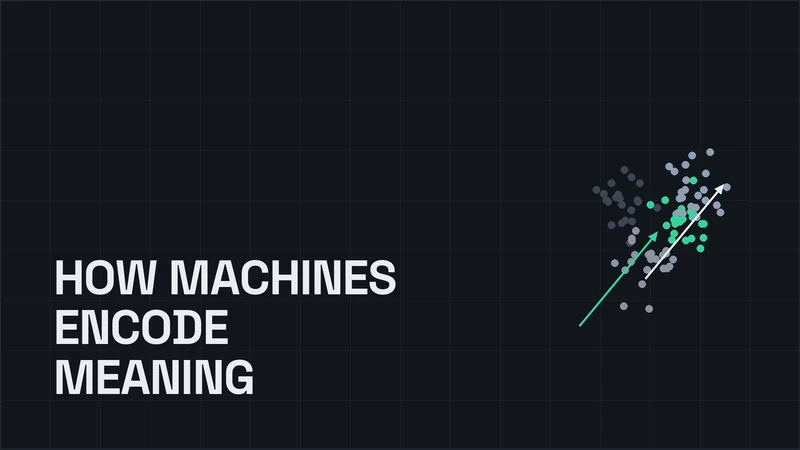
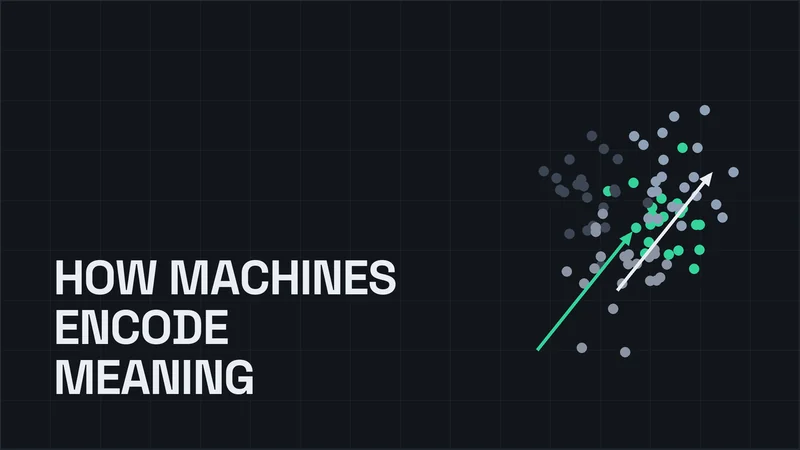
UI/UX polish: tidy Experience and Research copy, polish article figures

diff --git a/pages/experience.html b/pages/experience.html
@@ -22,7 +22,7 @@
     <link rel="icon" type="image/png" href="/assets/favicon.png?v=5" />
     <link rel="preload" href="/assets/webfonts/space-grotesk-400.woff2" as="font" type="font/woff2" crossorigin />
     <link rel="preload" href="/assets/webfonts/space-grotesk-700.woff2" as="font" type="font/woff2" crossorigin />
-    <link rel="stylesheet" href="/assets/css/styles.css?v=207" />
+    <link rel="stylesheet" href="/assets/css/styles.css?v=210" />
     <script>
       (function () {
         try {
@@ -70,9 +70,9 @@
                 <span class="timeline-loc"><svg class="loc-pin" viewBox="0 0 24 24" fill="none" stroke="currentColor" stroke-width="2" stroke-linecap="round" stroke-linejoin="round" aria-hidden="true"><path d="M21 10c0 7-9 13-9 13s-9-6-9-13a9 9 0 0 1 18 0z"/><circle cx="12" cy="10" r="3"/></svg>New York, NY</span>
               </div>
               <ul class="detail-list">
-                <li>Engineer and validate LLM prompts to evaluate <strong>commercial LLMs&rsquo; capability to automate population health analytics</strong> tasks like <strong>health disparity detection</strong> and report generation for a grant-funded health equity study.</li>
-                <li>Run <strong>blinded, human-in-the-loop evaluations</strong> of LLM outputs, measuring accuracy, bias, and <strong>hallucination risk</strong> for responsible use in a safety net health system.</li>
-                <li>Translate evaluation results into clear findings for the research team, supporting <strong>manuscript development</strong> and <strong>grant dissemination</strong> on responsible LLM use in healthcare.</li>
+                <li>Engineer and validate LLM prompts to evaluate commercial LLMs&rsquo; capability to automate <strong>population health analytics</strong> tasks like <strong>health disparity detection</strong> and report generation.</li>
+                <li>Run blinded, human-in-the-loop evaluations of LLM outputs, measuring accuracy, bias, and <strong>hallucination risk</strong> for responsible use in a safety net health system.</li>
+                <li>Translate evaluation results into clear findings for the research team, supporting manuscript development and grant dissemination on responsible LLM use in healthcare.</li>
               </ul>
             </div>
           </article>
@@ -86,8 +86,8 @@
               </div>
               <ul class="detail-list">
                 <li>Develop <strong>deep-learning pose-estimation models</strong> (PyTorch) that track body and facial keypoints in high-speed video, automating <strong>pain behavior measurement</strong> in preclinical research.</li>
-                <li>Own the data side of model training, curating and validating <strong>labeled datasets</strong> with rigorous <strong>quality review</strong> to ensure model generalization across subjects and labs.</li>
-                <li>Run and benchmark <strong>training experiments</strong> on <strong>cloud platforms</strong>, defining evaluation metrics and diagnosing failure modes to improve reliability.</li>
+                <li>Own the data side of model training, curating and validating labeled datasets with rigorous quality review to ensure <strong>model generalization</strong> across subjects and labs.</li>
+                <li>Run and benchmark training experiments on cloud platforms, defining <strong>evaluation metrics</strong> and diagnosing failure modes to improve reliability.</li>
               </ul>
             </div>
           </article>
@@ -100,11 +100,11 @@
                 <span class="timeline-loc"><svg class="loc-pin" viewBox="0 0 24 24" fill="none" stroke="currentColor" stroke-width="2" stroke-linecap="round" stroke-linejoin="round" aria-hidden="true"><path d="M21 10c0 7-9 13-9 13s-9-6-9-13a9 9 0 0 1 18 0z"/><circle cx="12" cy="10" r="3"/></svg>New York, NY</span>
               </div>
               <ul class="detail-list">
-                <li>Develop an <strong>agentic AI pipeline</strong> using <strong>RAG</strong>, <strong>LLMs</strong>, and <strong>MCP-connected tools</strong> for natural language querying over complex geoscience databases, as part of an <strong>NSF-funded</strong> geoinformatics project.</li>
-                <li>Bridge <strong>geoscience domain expertise</strong> and <strong>AI engineering</strong>, translating research requirements into technical specs and iterating on pipeline outputs for interpretability and scientific relevance.</li>
-                <li>Design the <strong>end-to-end technical stack</strong>: <strong>vector database architecture</strong>, domain-specific <strong>embedding models</strong>, <strong>LLM optimization</strong>, and <strong>cloud deployment</strong> for a production-ready geoscience research tool.</li>
+                <li>Develop an <strong>agentic AI pipeline</strong> using RAG, LLMs, and MCP-connected tools for natural language querying over complex geoscience databases, as part of an <strong>NSF-funded</strong> geoinformatics project.</li>
+                <li>Bridge geoscience domain expertise and AI engineering, translating research requirements into technical specs and iterating on pipeline outputs for interpretability and scientific relevance.</li>
+                <li>Design the <strong>end-to-end technical stack</strong>: vector database architecture, domain-specific embedding models, LLM optimization, and cloud deployment for a production-ready geoscience research tool.</li>
               </ul>
-              <p class="meta" style="margin-top: 12px;">NSF Geoinformatics Grant #2148957</p>
+              <p class="tag grant-tag">NSF Geoinformatics Grant #2148957</p>
             </div>
           </article>
           <article class="timeline-item">
@@ -116,9 +116,9 @@
                 <span class="timeline-loc"><svg class="loc-pin" viewBox="0 0 24 24" fill="none" stroke="currentColor" stroke-width="2" stroke-linecap="round" stroke-linejoin="round" aria-hidden="true"><path d="M21 10c0 7-9 13-9 13s-9-6-9-13a9 9 0 0 1 18 0z"/><circle cx="12" cy="10" r="3"/></svg>New York, NY</span>
               </div>
               <ul class="detail-list">
-                <li>Analyze <strong>institutional data</strong> using <strong>Excel</strong>, <strong>Tableau</strong>, and <strong>Python</strong>, surfacing patterns that shape <strong>advising and student engagement programs</strong>.</li>
-                <li>Conduct <strong>data-driven surveys</strong> and <strong>retention studies</strong>, uncovering behavioral patterns that inform targeted outreach.</li>
-                <li>Build <strong>analytical reports</strong> and <strong>dashboards</strong> that surface trends and anomalies across departments, replacing gut-feel decisions with <strong>data-backed ones</strong>.</li>
+                <li>Analyze institutional data using Excel, Tableau, and Python, surfacing patterns that shape <strong>advising and student engagement programs</strong>.</li>
+                <li>Conduct data-driven surveys and <strong>retention studies</strong>, uncovering behavioral patterns that inform targeted outreach.</li>
+                <li>Build analytical reports and <strong>dashboards</strong> that surface trends and anomalies across departments, replacing gut-feel decisions with data-backed ones.</li>
               </ul>
             </div>
           </article>
@@ -131,9 +131,9 @@
                 <span class="timeline-loc"><svg class="loc-pin" viewBox="0 0 24 24" fill="none" stroke="currentColor" stroke-width="2" stroke-linecap="round" stroke-linejoin="round" aria-hidden="true"><path d="M21 10c0 7-9 13-9 13s-9-6-9-13a9 9 0 0 1 18 0z"/><circle cx="12" cy="10" r="3"/></svg>New York, NY</span>
               </div>
               <ul class="detail-list">
-                <li>Designed and maintained <strong>scalable data pipelines</strong> to collect, integrate, and validate <strong>multi-source data</strong> through automated scripts, APIs, and web scraping.</li>
-                <li>Built <strong>data applications</strong> and analytical workflows powered by <strong>LLMs</strong>, integrating OpenAI and Hugging Face models into user-facing tools for exploring key metrics.</li>
-                <li>Analyzed data to surface trends and key drivers, packaging findings into <strong>visualizations</strong> and structured reports.</li>
+                <li>Designed and maintained <strong>scalable data pipelines</strong> to collect, integrate, and validate multi-source data through automated scripts, APIs, and web scraping.</li>
+                <li>Built data applications and analytical workflows powered by <strong>LLMs</strong>, integrating OpenAI and Hugging Face models into user-facing tools for exploring key metrics.</li>
+                <li>Analyzed data to surface trends and key drivers, packaging findings into visualizations and structured reports.</li>
               </ul>
             </div>
           </article>
@@ -141,7 +141,7 @@
             <div class="timeline-date">Feb 2024 - Aug 2025</div>
             <div class="timeline-card">
               <h3>AI Researcher - Healthcare, NLP & Adversarial AI</h3>
-              <p class="meta">Independent</p>
+              <p class="meta">Independent Research</p>
               <div class="timeline-side">
                 <span class="timeline-loc"><svg class="loc-pin" viewBox="0 0 24 24" fill="none" stroke="currentColor" stroke-width="2" stroke-linecap="round" stroke-linejoin="round" aria-hidden="true"><path d="M21 10c0 7-9 13-9 13s-9-6-9-13a9 9 0 0 1 18 0z"/><circle cx="12" cy="10" r="3"/></svg>New York, NY</span>
               </div>
@@ -163,8 +163,8 @@
                 <span class="timeline-loc"><svg class="loc-pin" viewBox="0 0 24 24" fill="none" stroke="currentColor" stroke-width="2" stroke-linecap="round" stroke-linejoin="round" aria-hidden="true"><path d="M21 10c0 7-9 13-9 13s-9-6-9-13a9 9 0 0 1 18 0z"/><circle cx="12" cy="10" r="3"/></svg>Dhaka, BD</span>
               </div>
               <ul class="detail-list">
-                <li>Digitized mixed <strong>Bangla-English prescriptions</strong> using a custom <strong>CNN model</strong>, achieving <strong>91% OCR accuracy</strong> including cursive handwriting recognition.</li>
-                <li>Reduced model training time by <strong>20%</strong> through optimized <strong>hyperparameter tuning</strong> and advanced preprocessing, including noise reduction and character segmentation.</li>
+                <li>Digitized mixed Bangla-English prescriptions using a custom <strong>CNN model</strong>, achieving <strong>91% OCR accuracy</strong> including cursive handwriting recognition.</li>
+                <li>Reduced model training time by <strong>20%</strong> through optimized hyperparameter tuning and advanced preprocessing, including noise reduction and character segmentation.</li>
                 <li>Improved system scalability by integrating <strong>modular preprocessing components</strong> for varied handwriting styles.</li>
               </ul>
             </div>

diff --git a/pages/research.html b/pages/research.html
@@ -22,7 +22,7 @@
     <link rel="icon" type="image/png" href="/assets/favicon.png?v=5" />
     <link rel="preload" href="/assets/webfonts/space-grotesk-400.woff2" as="font" type="font/woff2" crossorigin />
     <link rel="preload" href="/assets/webfonts/space-grotesk-700.woff2" as="font" type="font/woff2" crossorigin />
-    <link rel="stylesheet" href="/assets/css/styles.css?v=207" />
+    <link rel="stylesheet" href="/assets/css/styles.css?v=210" />
     <script>
       (function () {
         try {
@@ -70,13 +70,13 @@
           <article class="card">
             <span class="tag">IEEE Xplore</span>
             <h3>Robust Dual-Site Cancer Screening via Multi-Scale Vision Transformer & Rapid Recognition Pipeline</h3>
-            <p>Transformer-based framework for automated skin and oral cancer detection using Multi-ViT, MA-Transformer V2, MobileUNETR, TinyViT, and Xception, reaching 99.12% accuracy on PAD-UFES-20 and 99.37% on the Oral Cancer dataset.</p>
+            <p>Skin and oral cancer detection with Multi-ViT, MA-Transformer V2, MobileUNETR, TinyViT, and Xception, reaching 99.12% accuracy on PAD-UFES-20 and 99.37% on oral cancer data.</p>
             <a href="https://ieeexplore.ieee.org/document/11504035" target="_blank" rel="noopener">Read paper</a>
           </article>
           <article class="card">
             <span class="tag">Springer Nature</span>
             <h3>Texture Feature-Based Colonic Polyp Detection Using Deep Learning Techniques</h3>
-            <p>DeepLab3+ segmentation model achieving 97.33% IoU accuracy for colonic polyp boundary detection.</p>
+            <p>DeepLab3+ segmentation model with ResNet50 feature extraction, outlining colonic polyp boundaries at 97.33% IoU to support early colorectal cancer detection.</p>
             <a href="https://link.springer.com/chapter/10.1007/978-3-031-73324-6_2" target="_blank" rel="noopener">Read paper</a>
           </article>
           <article class="card">
@@ -120,8 +120,8 @@
             <p>Investigated sponge attacks that amplify energy consumption and inference latency on IoT and autonomous systems, with proposed defenses.</p>
           </article>
           <article class="card">
-            <h3>VLM-Based Adversarial Robustness for Autonomous Driving</h3>
-            <p>Built a VLM pipeline on NuScenes and Waymo to evaluate adversarial sponge vulnerabilities in vision-language models, improving robustness through explainable AI and adversarial training.</p>
+            <h3>Evaluating VLM-Based Adversarial Robustness for Autonomous Driving</h3>
+            <p>Built a VLM pipeline on NuScenes and Waymo to probe sponge-attack vulnerabilities, improving robustness through explainable AI and adversarial training.</p>
           </article>
           <article class="card">
             <h3>Explainable Token-Fusion Transformer for Early Drowsiness State Recognition</h3>

diff --git a/index.html b/index.html
@@ -25,7 +25,7 @@
     <link rel="icon" type="image/png" href="assets/favicon.png?v=5" />
     <link rel="preload" href="/assets/webfonts/space-grotesk-400.woff2" as="font" type="font/woff2" crossorigin />
     <link rel="preload" href="/assets/webfonts/space-grotesk-700.woff2" as="font" type="font/woff2" crossorigin />
-    <link rel="stylesheet" href="assets/css/styles.css?v=207" />
+    <link rel="stylesheet" href="assets/css/styles.css?v=210" />
     <script>
       (function () {
         try {
@@ -69,7 +69,7 @@
         <aside class="profile-panel" aria-label="Profile summary">
           <img src="assets/avatar.webp" alt="Illustrated avatar of Fahim Ahamed" decoding="async" fetchpriority="high" width="320" height="320" />
           <ul class="profile-facts" aria-label="Location and work authorization">
-            <li><svg viewBox="0 0 24 24" aria-hidden="true"><path d="M21 10c0 7-9 13-9 13s-9-6-9-13a9 9 0 0 1 18 0z"/><circle cx="12" cy="10" r="3"/></svg>New York City Metropolitan Area</li>
+            <li><svg viewBox="0 0 24 24" aria-hidden="true"><path d="M21 10c0 7-9 13-9 13s-9-6-9-13a9 9 0 0 1 18 0z"/><circle cx="12" cy="10" r="3"/></svg>New York City Metro Area</li>
             <li><svg viewBox="0 0 24 24" aria-hidden="true"><polyline points="20 6 9 17 4 12"/></svg>U.S. Permanent Resident</li>
             <li><svg viewBox="0 0 24 24" aria-hidden="true"><polyline points="20 6 9 17 4 12"/></svg>No sponsorship needed</li>
           </ul>
@@ -401,7 +401,7 @@
 
     <script src="assets/js/site.js?v=44" defer></script>
 
-    <script src="assets/data/articles.js?v=12"></script>
+    <script src="assets/data/articles.js?v=25"></script>
     <script>
       (function () {
         var grid = document.getElementById('featured-writing');

diff --git a/assets/css/styles.css b/assets/css/styles.css
@@ -569,6 +569,11 @@ a {
   text-transform: uppercase;
 }
 
+/* the funding badge closing a timeline card: the journal-tag style, set off from the bullets above */
+.grant-tag {
+  margin: 14px 0 0;
+}
+
 h1,
 h2,
 h3,
@@ -601,6 +606,7 @@ h3 {
   font-weight: 700;
   line-height: 1.3;
   letter-spacing: -0.01em;
+  text-wrap: pretty; /* no single word stranded on a title's last line */
 }
 
 .lede {
@@ -2634,6 +2640,18 @@ h3 {
 /* the degree line sets up the meta line below it, so give them room apart */
 .education-grid article > p:not(.education-meta) {
   margin-bottom: 0;
+}
+
+/* inline links in the degree notes (Washington Accord): accent colour instead of an underline,
+   which comes back on hover so it still reads as a link */
+.education-grid article a {
+  color: var(--accent-dark);
+  text-decoration: none;
+}
+
+.education-grid article a:hover {
+  text-decoration: underline;
+  text-underline-offset: 3px;
 }
 
 .education-grid .education-meta .sep {

diff --git a/pages/writing.html b/pages/writing.html
@@ -22,7 +22,7 @@
     <link rel="icon" type="image/png" href="/assets/favicon.png?v=5" />
     <link rel="preload" href="/assets/webfonts/space-grotesk-400.woff2" as="font" type="font/woff2" crossorigin />
     <link rel="preload" href="/assets/webfonts/space-grotesk-700.woff2" as="font" type="font/woff2" crossorigin />
-    <link rel="stylesheet" href="/assets/css/styles.css?v=207" />
+    <link rel="stylesheet" href="/assets/css/styles.css?v=210" />
     <script>
       (function () {
         try {
@@ -113,7 +113,7 @@
     </footer>
 
     <script src="/assets/js/site.js?v=44" defer></script>
-    <script src="/assets/data/articles.js?v=12"></script>
+    <script src="/assets/data/articles.js?v=25"></script>
     <script>
       const grid = document.querySelector('#article-grid');
       const count = document.querySelector('#article-count');

diff --git a/404.html b/404.html
@@ -11,7 +11,7 @@
     <meta name="theme-color" media="(prefers-color-scheme: dark)" content="#0e1115" />
     <link rel="preload" href="/assets/webfonts/space-grotesk-400.woff2" as="font" type="font/woff2" crossorigin />
     <link rel="preload" href="/assets/webfonts/space-grotesk-700.woff2" as="font" type="font/woff2" crossorigin />
-    <link rel="stylesheet" href="/assets/css/styles.css?v=207" />
+    <link rel="stylesheet" href="/assets/css/styles.css?v=210" />
     <script>
       (function () {
         try {

diff --git a/pages/data-stories.html b/pages/data-stories.html
@@ -22,7 +22,7 @@
     <link rel="icon" type="image/png" href="/assets/favicon.png?v=5" />
     <link rel="preload" href="/assets/webfonts/space-grotesk-400.woff2" as="font" type="font/woff2" crossorigin />
     <link rel="preload" href="/assets/webfonts/space-grotesk-700.woff2" as="font" type="font/woff2" crossorigin />
-    <link rel="stylesheet" href="/assets/css/styles.css?v=207" />
+    <link rel="stylesheet" href="/assets/css/styles.css?v=210" />
     <script>
       (function () {
         try {

diff --git a/pages/projects.html b/pages/projects.html
@@ -22,7 +22,7 @@
     <link rel="icon" type="image/png" href="/assets/favicon.png?v=5" />
     <link rel="preload" href="/assets/webfonts/space-grotesk-400.woff2" as="font" type="font/woff2" crossorigin />
     <link rel="preload" href="/assets/webfonts/space-grotesk-700.woff2" as="font" type="font/woff2" crossorigin />
-    <link rel="stylesheet" href="/assets/css/styles.css?v=207" />
+    <link rel="stylesheet" href="/assets/css/styles.css?v=210" />
     <script>
       (function () {
         try {

diff --git a/assets/data/articles.js b/assets/data/articles.js
@@ -562,7 +562,7 @@ function themedSrc(src) {
 }
 
 // bump when the thumbnails are regenerated: same file names, so browsers would keep the old art
-const THUMB_VERSION = 8;
+const THUMB_VERSION = 21;
 
 function articleCard(article) {
   const image = article.image
